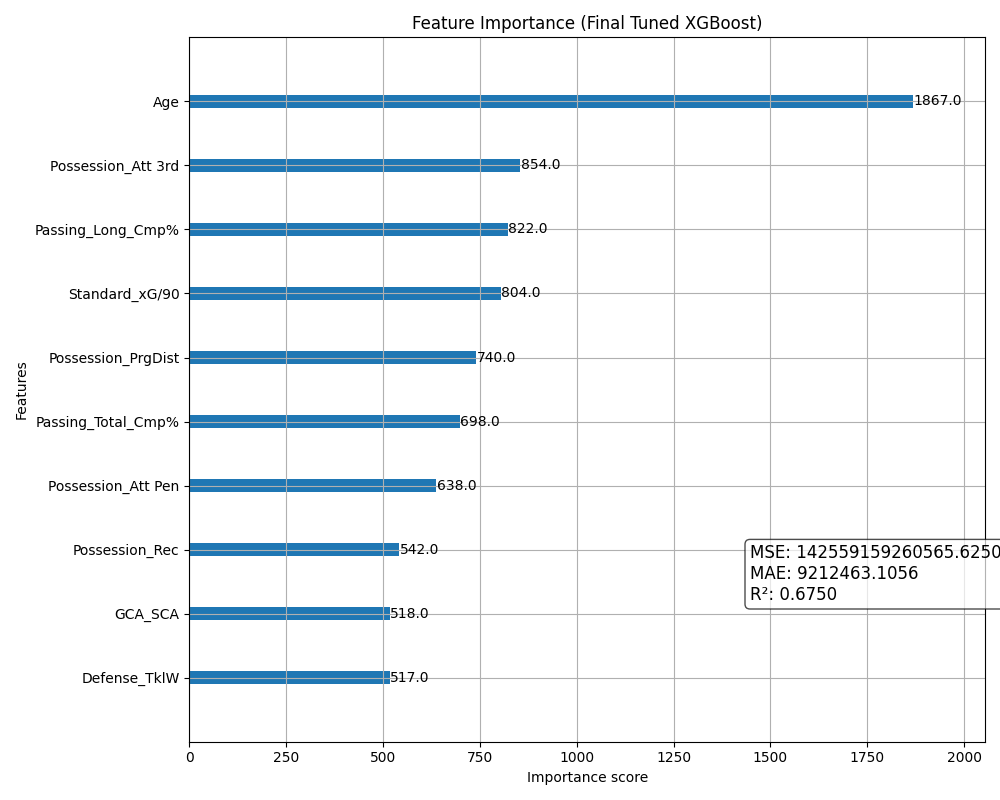
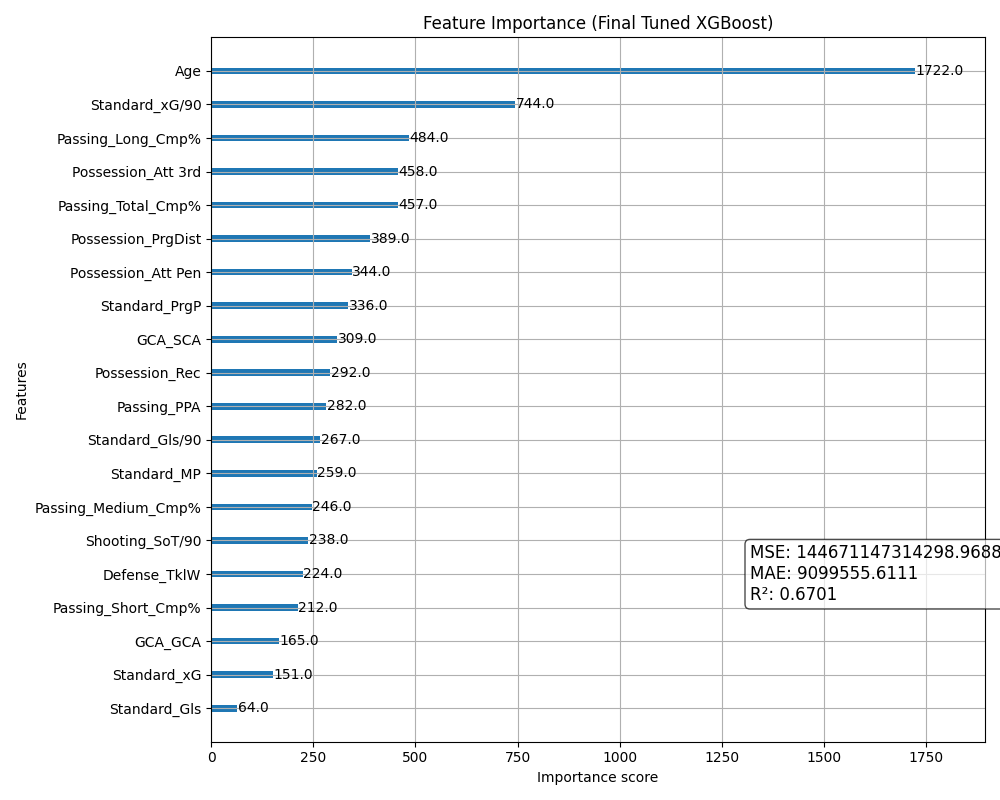
nothing

diff --git a/Problem_IV/Tuning.py b/Problem_IV/Tuning.py
@@ -45,11 +45,11 @@ model = xgb.XGBRegressor(
 )
 
 param_dist = {
-    'learning_rate': [0.01, 0.02, 0.05, 0.1, 0.2, 0.3],
+    'learning_rate': [0.01, 0.02, 0.03 ,0.05, 0.1, 0.2, 0.3],
     'n_estimators': [100, 200, 300, 500, 800],
     'min_child_weight': [1, 2, 3, 4, 5, 6, 7, 8, 9, 10],
-    'subsample': [0.5,0.6, 0.7, 0.8, 0.9, 1.0],
-    'colsample_bytree': [0.5,0.6, 0.7, 0.8, 0.9, 1.0],
+    'subsample': [0.4,0.5,0.6, 0.7, 0.8, 0.9, 1.0],
+    'colsample_bytree': [0.4,0.5,0.6, 0.7, 0.8, 0.9, 1.0],
     'gamma': [0, 1, 5],
     'reg_alpha': [0, 0.1, 0.5],
     'reg_lambda': [1, 5, 10]
@@ -59,7 +59,7 @@ print("\n🔹 Starting Randomized Search (rough tuning)...")
 random_search = RandomizedSearchCV(
     estimator=model,
     param_distributions=param_dist,
-    n_iter=50,
+    n_iter=100,
     scoring='neg_mean_squared_error',
     n_jobs=-1,
     cv=3,
@@ -106,6 +106,11 @@ except Exception as e:
     exit()
 
 # === Final best model ===
+# Best Hyperparameters after fine tuning: {'colsample_bytree': 0.6, 'gamma': 5, 'learning_rate': 0.08000000000000002, 'min_child_weight': 1, 'n_estimators': 200, 'reg_alpha': 0, 'reg_lambda': 1, 'subsample': 0.8}
+# XGBoost Final Tuned Model Performance:
+# MSE: 142375383054921.7500
+# MAE: 9219452.3278
+# R²: 0.6754
 best_model = grid_search.best_estimator_
 print("\nBest Hyperparameters after fine tuning:", grid_search.best_params_)
 
@@ -122,17 +127,10 @@ print(f"MSE: {mse:.4f}")
 print(f"MAE: {mae:.4f}")
 print(f"R²: {r2:.4f}")
 
-# === Save the model ===
-try:
-    pickle.dump(best_model, open('Model_file/final_xgb_model.pkl', 'wb'))
-    print("\nModel saved successfully as 'xgb_model.pkl'.")
-except Exception as e:
-    print(f"Error saving model: {e}")
-
 # === Visualize feature importance with performance metrics ===
 try:
     fig, ax = plt.subplots(figsize=(10, 8))
-    xgb.plot_importance(best_model, max_num_features=10, ax=ax)
+    xgb.plot_importance(best_model, max_num_features=20, ax=ax)
     plt.title("Feature Importance (Final Tuned XGBoost)")
 
     # Add performance metrics as a textbox inside the plot
